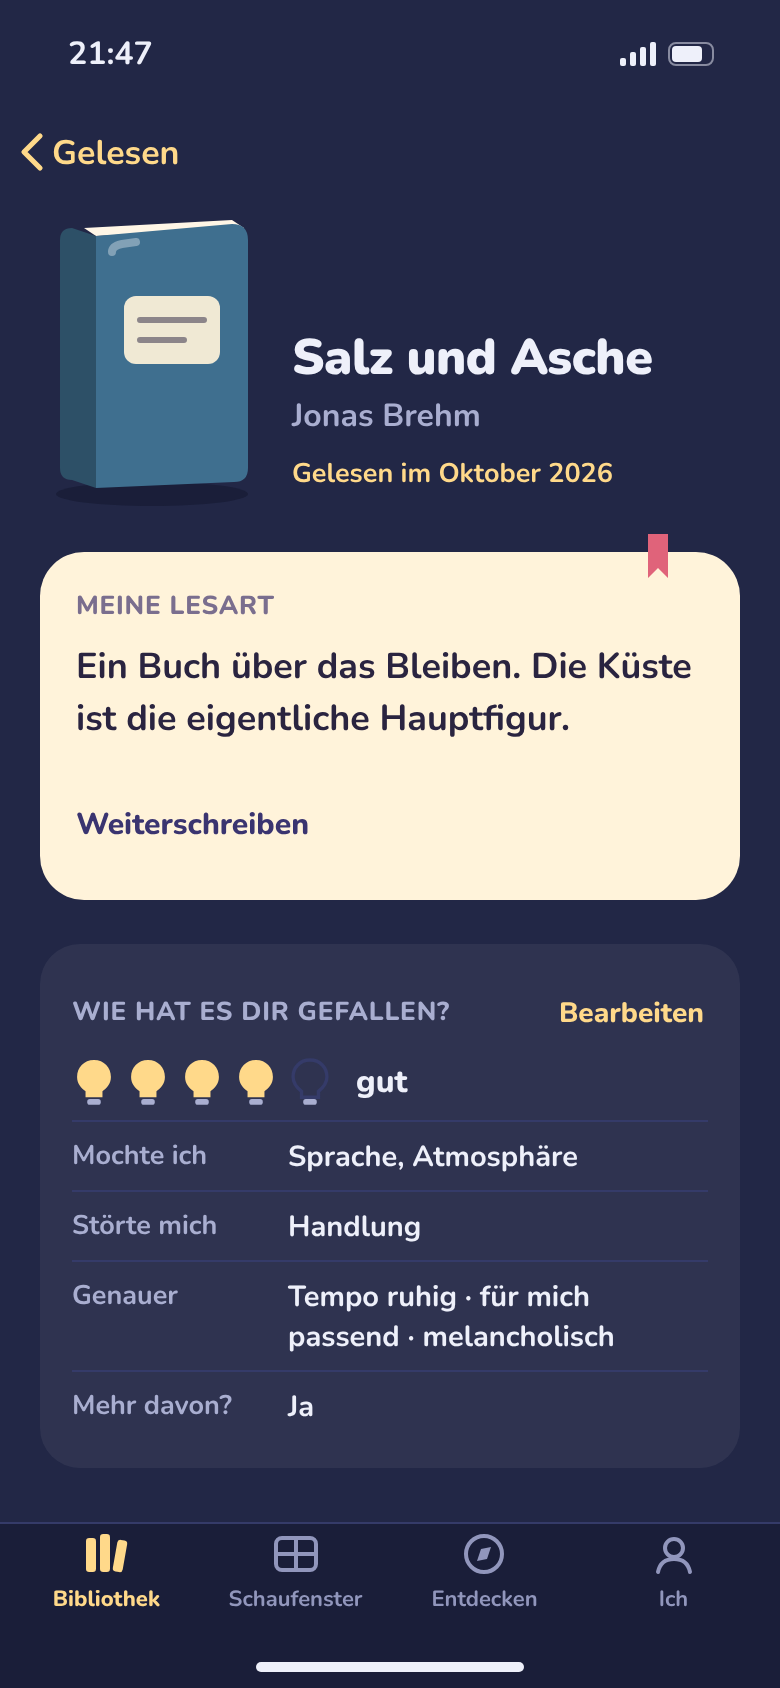
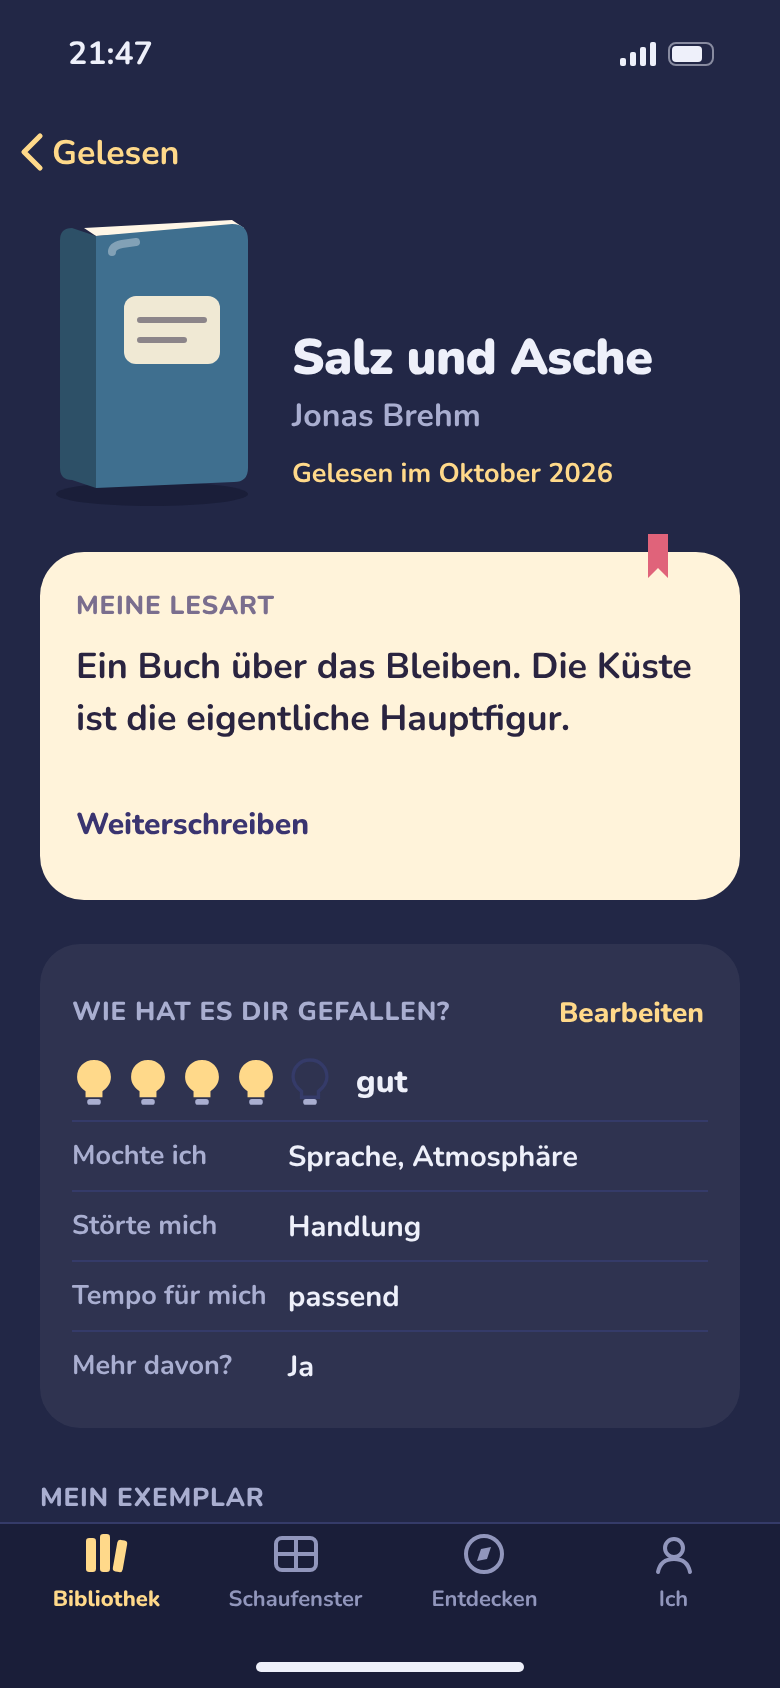
Prototyp: Bewertungsansicht nach Entscheidungen (Mehr davon oben, Seltener nur bei Ablehnung)
Claude-Session: https://claude.ai/code/session_01XFBEjrJEUrXQYaFeZnVBdK

Changed region(s): [[0.0615, 0.7393, 0.3385, 0.8934], [0.3692, 0.7393, 0.8, 0.8626], [0.2769, 0.7393, 0.3385, 0.7701]]

diff --git a/prototyp/designer/3-charakter/LichtAn.dc.html b/prototyp/designer/3-charakter/LichtAn.dc.html
@@ -539,6 +539,10 @@ input[type=search]::-webkit-search-cancel-button{display:none}
 <sc-for list="{{rv.stars}}" as="l" hint-placeholder-count="5"><button type="button" role="radio" aria-label="{{l.aria}}" aria-checked="{{l.checked}}" onClick="{{l.pick}}" style="width: 46px; height: 48px; border: none; background: none; cursor: pointer; display: flex; align-items: center; justify-content: center; padding: 0"><svg width="26" height="30" viewBox="0 0 26 30" aria-hidden="true"><path d="M13 2 C7 2 3 6.5 3 12 C3 16 5.5 18.5 8 20.5 L8 24 L18 24 L18 20.5 C20.5 18.5 23 16 23 12 C23 6.5 19 2 13 2 Z" style="{{l.bulb}}"></path><rect x="9" y="25" width="8" height="3.5" rx="1.5" style="fill: var(--mute)"></rect></svg></button></sc-for>
 <span style="margin-left: 8px; font-size: 16px; font-weight: 800">{{rv.word}}</span>
 </div>
+<p style="margin: 6px 4px 6px 4px; font-size: 13.5px; font-weight: 700; color: var(--mute)">{{rv.againLabel}}</p>
+<div role="radiogroup" aria-label="{{rv.againLabel}}" style="display: flex; gap: 6px">
+<sc-for list="{{rv.again}}" as="o" hint-placeholder-count="3"><button type="button" role="radio" aria-checked="{{o.checked}}" onClick="{{o.pick}}" style="{{o.style}}">{{o.label}}</button></sc-for>
+</div>
 
 <sc-if value="{{rv.isRead}}" hint-placeholder-val="{{ true }}">
 <h3 style="margin: 14px 4px 4px 4px; font-size: 13px; font-weight: 800; color: var(--mute); letter-spacing: .03em">WAS HAT FUNKTIONIERT, WAS HAT GESTÖRT?</h3>
@@ -557,6 +561,12 @@ input[type=search]::-webkit-search-cancel-button{display:none}
 <div role="group" aria-label="Gründe" style="display: flex; flex-wrap: wrap; gap: 6px">
 <sc-for list="{{rv.reasons}}" as="c" hint-placeholder-count="10"><button type="button" aria-pressed="{{c.pressed}}" onClick="{{c.toggle}}" style="{{c.style}}">{{c.label}}</button></sc-for>
 </div>
+<sc-if value="{{rv.showTempoDetail}}" hint-placeholder-val="{{ false }}">
+<div role="radiogroup" aria-label="Tempo: zu langsam oder zu schnell?" style="display: flex; align-items: center; gap: 6px; margin-top: 10px; padding: 8px 10px; border-radius: 16px; background: var(--field)">
+<span style="flex: 1; font-size: 13.5px; font-weight: 700; color: var(--mute)">Tempo war …</span>
+<sc-for list="{{rv.tempoDetail}}" as="o" hint-placeholder-count="2"><button type="button" role="radio" aria-checked="{{o.checked}}" onClick="{{o.pick}}" style="{{o.style}}">{{o.label}}</button></sc-for>
+</div>
+</sc-if>
 </sc-if>
 
 <h3 style="margin: 16px 4px 6px 4px; font-size: 13px; font-weight: 800; color: var(--mute); letter-spacing: .03em">{{rv.textLabel}}</h3>
@@ -566,7 +576,7 @@ input[type=search]::-webkit-search-cancel-button{display:none}
 <span style="display: flex; flex-direction: column; text-align: left"><span style="font-size: 15.5px; font-weight: 800">Genauer beschreiben</span><span style="font-size: 12.5px; font-weight: 600; color: var(--mute)">{{rv.moreHint}}</span></span>
 <svg width="16" height="10" viewBox="0 0 16 10" aria-hidden="true" style="{{rv.chevron}}"><path d="M2 2l6 6 6-6" fill="none" style="stroke: var(--acc)" stroke-width="2.4" stroke-linecap="round" stroke-linejoin="round"></path></svg>
 </button>
-<sc-if value="{{rv.moreOpen}}" hint-placeholder-val="{{ false }}">
+<sc-if value="{{rv.moreVisible}}" hint-placeholder-val="{{ false }}">
 <sc-for list="{{rv.groups}}" as="g" hint-placeholder-count="6">
 <h4 style="margin: 12px 4px 6px 4px; font-size: 13px; font-weight: 800; color: var(--mute)">{{g.label}}</h4>
 <div role="group" aria-label="{{g.label}}" style="display: flex; flex-wrap: wrap; gap: 6px">
@@ -644,11 +654,7 @@ var STAR_WORDS = ['noch offen', 'gar nicht', 'eher nicht', 'okay', 'gut', 'sehr 
 var ASPECTS_ROMAN = ['Sprache', 'Figuren', 'Handlung', 'Atmosphäre', 'Thema'];
 var ASPECTS_SACH = ['Verständlichkeit', 'Tiefe', 'Thema'];
 var MORE_GROUPS = [
-  ['tempoBook', 'Tempo des Buchs', ['ruhig', 'ausgewogen', 'rasant'], false],
   ['tempoMe', 'Tempo für mich', ['zu langsam', 'passend', 'zu schnell'], false],
-  ['moods', 'Stimmung des Buchs', ['heiter', 'warm', 'nachdenklich', 'melancholisch', 'düster', 'spannend'], true],
-  ['level', 'Anspruch', ['leicht', 'mittel', 'fordernd'], false],
-  ['again', 'Mehr von dieser Person?', ['Ja', 'Nein', 'weiß nicht'], false],
   ['less', 'Was möchtest du künftig seltener?', ['dieses Genre', 'dieses Thema', 'solche Länge', 'diesen Ton'], true]
 ];
 function blankRating() { return { stars: 0, asp: {}, reasons: [], text: '', tempoBook: '', tempoMe: '', moods: [], level: '', again: '', less: [] }; }
@@ -725,7 +731,7 @@ class Component extends DCLogic {
       dropped: [{ id: 'fluss', when: 'Mai 2026' }],
       finished: [], rate: null, rd: blankRating(), moreOpen: false,
       ratings: {
-        uhr: { stars: 5, asp: { Sprache: 'like', Figuren: 'like', Handlung: 'like', Atmosphäre: 'like' }, reasons: [], text: '', tempoBook: 'ausgewogen', tempoMe: 'passend', moods: ['nachdenklich', 'warm'], level: 'mittel', again: 'Ja', less: [] },
+        uhr: { stars: 5, asp: { Sprache: 'like', Figuren: 'like', Handlung: 'like', Atmosphäre: 'like' }, reasons: [], text: '', tempoBook: '', tempoMe: 'passend', moods: [], level: '', again: 'Ja', less: [] },
         fluss: { stars: 2, asp: {}, reasons: ['Tempo', 'Zu lang'], text: 'Schöne Sätze, aber nach 80 Seiten ist noch nichts passiert.', tempoBook: '', tempoMe: 'zu langsam', moods: [], level: '', again: 'weiß nicht', less: [] }
       },
       reasons: [], note: '', volNotice: '' };
@@ -850,9 +856,7 @@ class Component extends DCLogic {
         if (likes.length) out.push({ k: 'Mochte ich', v: likes.join(', ') });
         if (dis.length) out.push({ k: 'Störte mich', v: dis.join(', ') });
         if (rt.reasons.length) out.push({ k: 'Woran es lag', v: rt.reasons.join(', ') });
-        var more = [];
-        if (rt.tempoBook) more.push('Tempo ' + rt.tempoBook); if (rt.tempoMe) more.push('für mich ' + rt.tempoMe); if (rt.moods.length) more.push(rt.moods.join(', ')); if (rt.level) more.push('Anspruch ' + rt.level);
-        if (more.length) out.push({ k: 'Genauer', v: more.join(' · ') });
+        if (rt.tempoMe) out.push({ k: 'Tempo für mich', v: rt.tempoMe });
         if (rt.again) out.push({ k: 'Mehr davon?', v: rt.again });
         if (rt.less.length) out.push({ k: 'Seltener', v: rt.less.join(', ') });
         if (b.vol === 'abgebrochen' && rt.text) out.push({ k: 'Eigene Worte', v: '„' + rt.text + '“' });
@@ -924,12 +928,20 @@ class Component extends DCLogic {
       var upd = function (patch) { self.setState({ rd: Object.assign({}, rd, patch) }); };
       var pill = function (on) { return 'min-height: 44px; padding: 0 13px; border-radius: 22px; cursor: pointer; font-size: 14px; font-weight: 800; border: 1.5px solid ' + (on ? 'var(--acc)' : 'var(--line)') + '; background: ' + (on ? 'var(--accBg)' : 'transparent') + '; color: ' + (on ? 'var(--acc)' : 'var(--ink)'); };
       var aspectBtn = function (on, bad) { return 'flex-shrink: 0; min-height: 44px; padding: 0 11px; border-radius: 22px; cursor: pointer; font-size: 13px; font-weight: 800; border: 1.5px solid ' + (on ? (bad ? 'var(--mute)' : 'var(--acc)') : 'var(--line)') + '; background: ' + (on ? (bad ? 'var(--field)' : 'var(--accBg)') : 'transparent') + '; color: ' + (on ? (bad ? 'var(--ink)' : 'var(--acc)') : 'var(--mute)'); };
-      var filled = 0; MORE_GROUPS.forEach(function (g) { var v = rd[g[0]]; if (g[3] ? v.length : v) filled++; });
+      var tempoReason = isDrop && rd.reasons.indexOf('Tempo') >= 0;
+      var showLess = isDrop || (rd.stars > 0 && rd.stars <= 2);
+      var groupsVis = MORE_GROUPS.filter(function (g) { return (g[0] !== 'less' || showLess) && !(g[0] === 'tempoMe' && tempoReason); });
+      var filled = 0; groupsVis.forEach(function (g) { var v = rd[g[0]]; if (g[3] ? v.length : v) filled++; });
       var who = (bk.author || '').split(' ').slice(-1)[0];
       return {
         isRead: !isDrop, isDrop: isDrop,
         intro: isDrop ? '„' + bk.title + '“ bei Seite ' + (s.pages[R0.id] || 0) + '. Was du hier angibst, hilft später bei passenden Empfehlungen.' : '„' + bk.title + '“' + (R0.kind === 'read' ? ' ist ausgelesen.' : ':') + ' Tippe nur an, was dir einfällt.',
         word: STAR_WORDS[rd.stars],
+        againLabel: 'Mehr von ' + (bk.author || 'dieser Person') + '?',
+        again: ['Ja', 'Nein', 'weiß nicht'].map(function (o) { var on = rd.again === o; return { label: o, checked: on ? 'true' : 'false', style: seg(on), pick: function () { upd({ again: on ? '' : o }); } }; }),
+        showTempoDetail: tempoReason,
+        tempoDetail: ['zu langsam', 'zu schnell'].map(function (o) { var on = rd.tempoMe === o; return { label: o, checked: on ? 'true' : 'false', style: pill(on), pick: function () { upd({ tempoMe: on ? '' : o }); } }; }),
+        moreVisible: s.moreOpen && groupsVis.length > 0,
         stars: [1, 2, 3, 4, 5].map(function (i) { return { aria: i + ' von 5, ' + STAR_WORDS[i], checked: rd.stars === i ? 'true' : 'false', bulb: i <= rd.stars ? 'fill: var(--bulb)' : 'fill: none; stroke: var(--mute); stroke-width: 2', pick: function () { upd({ stars: rd.stars === i ? 0 : i }); } }; }),
         aspects: (bk.sach ? ASPECTS_SACH : ASPECTS_ROMAN).map(function (a) {
           var v = rd.asp[a] || '';
@@ -941,10 +953,10 @@ class Component extends DCLogic {
         textLabel: isDrop ? 'EIGENE WORTE' : 'MEINE LESART', textHint: isDrop ? 'Was du dir merken möchtest (freiwillig)' : 'Was ist dir geblieben? Ein Satz reicht.', text: rd.text,
         setText: function (e) { upd({ text: e.target.value }); },
         moreOpen: s.moreOpen, moreExpanded: s.moreOpen ? 'true' : 'false', toggleMore: function () { self.setState({ moreOpen: !s.moreOpen }); },
-        moreHint: filled ? filled + ' von 6 angegeben' : 'Tempo, Stimmung, Anspruch, mehr davon?',
+        moreHint: filled ? filled + ' von ' + groupsVis.length + ' angegeben' : groupsVis.map(function (g) { return g[1]; }).join(', ').replace('Was möchtest du künftig seltener?', 'was seltener'),
         chevron: 'transition: transform .15s; transform: rotate(' + (s.moreOpen ? 180 : 0) + 'deg)',
-        groups: MORE_GROUPS.map(function (g) {
-          return { label: g[0] === 'again' ? 'Mehr von ' + (bk.author || 'dieser Person') + '?' : g[1], opts: g[2].map(function (o) {
+        groups: groupsVis.map(function (g) {
+          return { label: g[1], opts: g[2].map(function (o) {
             var on = g[3] ? rd[g[0]].indexOf(o) >= 0 : rd[g[0]] === o;
             return { label: o, pressed: on ? 'true' : 'false', style: pill(on), pick: function () { var p = {}; if (g[3]) { var x = rd[g[0]].slice(); var k = x.indexOf(o); if (k >= 0) x.splice(k, 1); else x.push(o); p[g[0]] = x; } else p[g[0]] = on ? '' : o; upd(p); } };
           }) };

diff --git a/prototyp/designer/3-charakter/KONZEPT.md b/prototyp/designer/3-charakter/KONZEPT.md
@@ -250,3 +250,4 @@ Grundlage: ENTSCHEIDUNGSVORLAGE-USP3.md, Abschnitte 2 und 8. Screens in `screens
 1. Soll „Mehr davon?“ aus „Genauer“ nach oben wandern?
 2. Soll „Seltener“ nur bei niedrigem Gefallen oder Abbruch erscheinen?
 3. Gehören Tempo des Buchs und Stimmung in den Katalog statt in die Bewertung?
+- **Entschieden (24.10.2026), umgesetzt:** „Mehr von [Person]?“ steht direkt unter dem Gefallen und wird mit einem Tipp beantwortet: Ja / Nein / weiß nicht. „Genauer beschreiben“ enthält nur noch „Tempo für mich“. „Seltener“ erscheint dort nur bei 1–2 Lichtern oder beim Abbruch. Tempo des Buchs, Stimmung und Anspruch sind entfallen und gehören in den Katalog. Beim Abbruchgrund „Tempo“ erscheint direkt darunter „Tempo war … zu langsam / zu schnell“. „Tempo für mich“ unter „Genauer“ ist dann ausgeblendet, damit nichts doppelt gefragt wird. Screens in screens5/ neu erzeugt.
